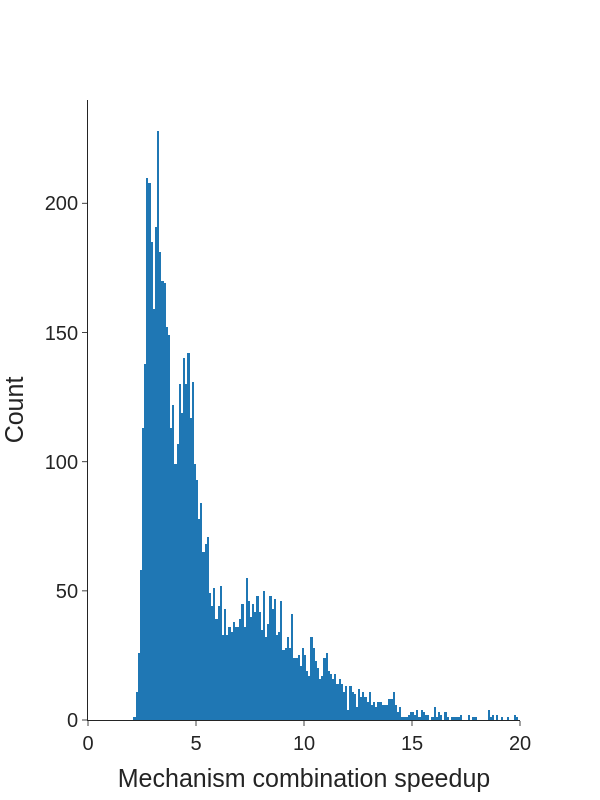
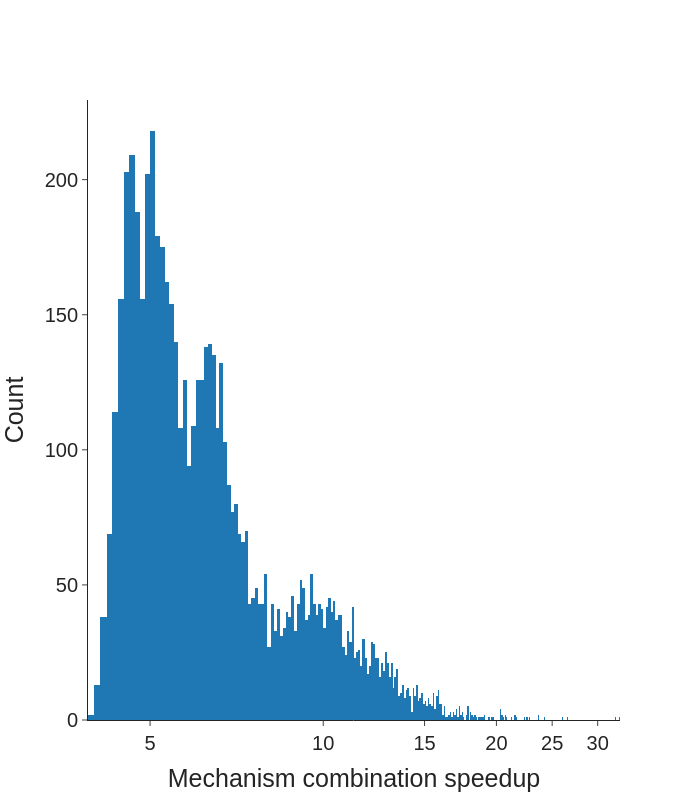
cosi

diff --git a/plots/mechanisms.py b/plots/mechanisms.py
@@ -1,6 +1,7 @@
 import plotly.graph_objs as go
 from pathlib import Path
 import numpy as np
+import math
 
 def plot():
     bigger_path = Path(__file__).parent.parent / "results" / "bigger_test"
@@ -11,7 +12,7 @@ def plot():
     m = np.mean(matrix, axis=1) / m
     return go.Figure(go.Histogram(x=m, marker_line_width=0), layout = dict(
         xaxis_title="Mechanism combination speedup",
-        xaxis_range=[0, 20],
+        xaxis_type="log",
         yaxis_title="Count",
         bargap=0.0,
         bargroupgap=0.0,
